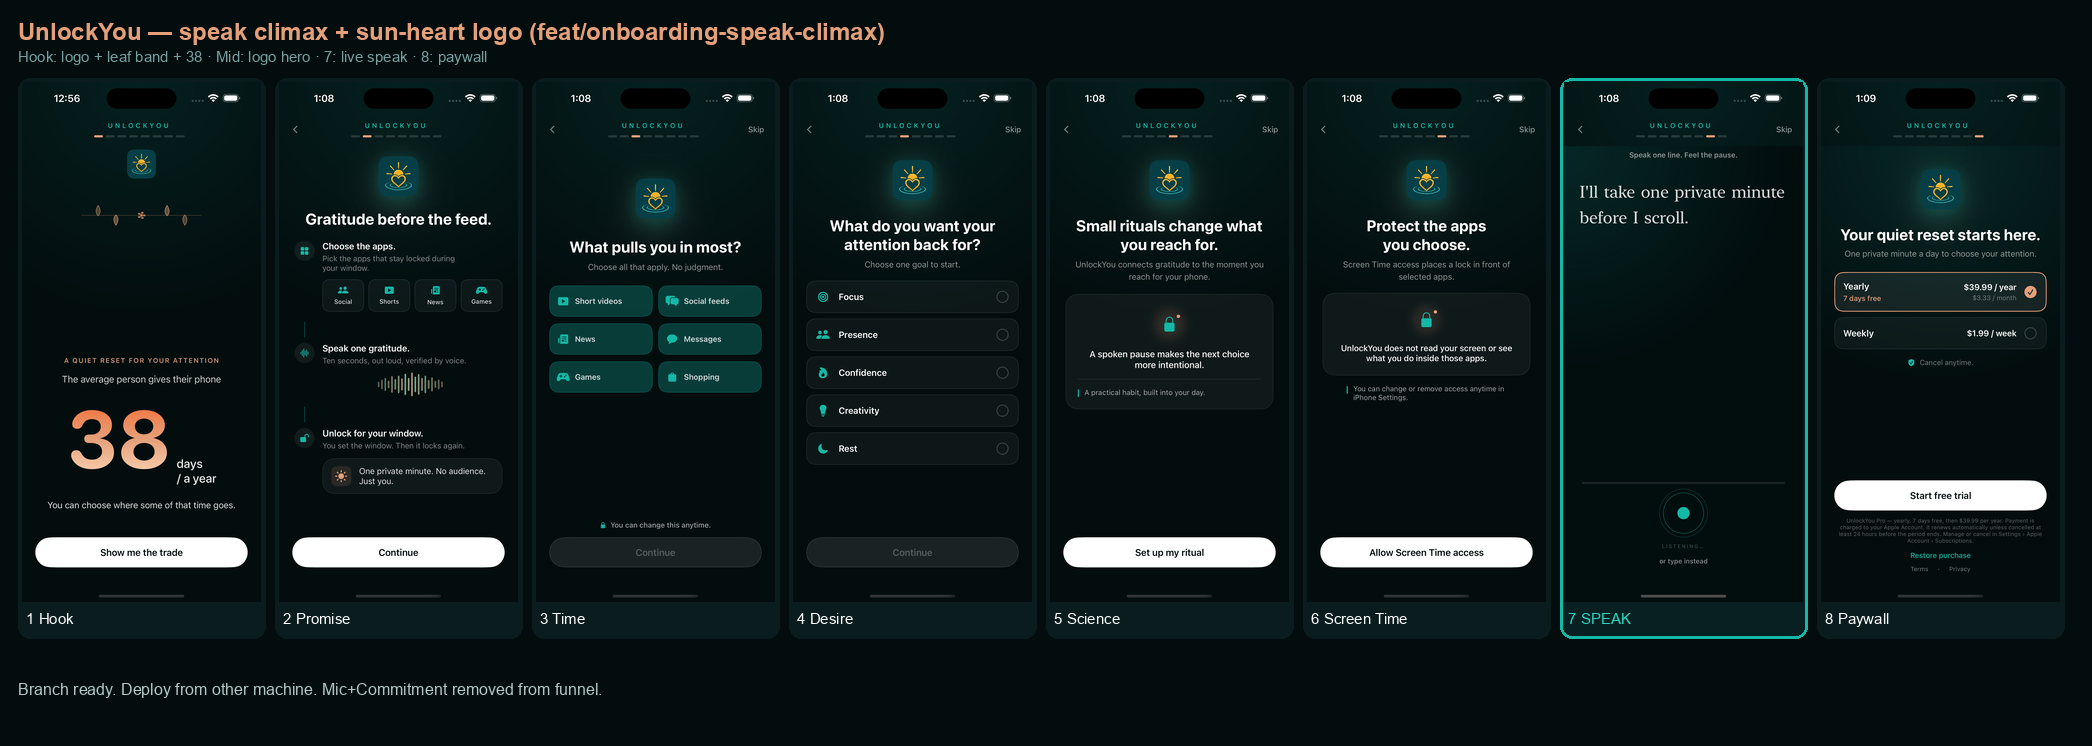
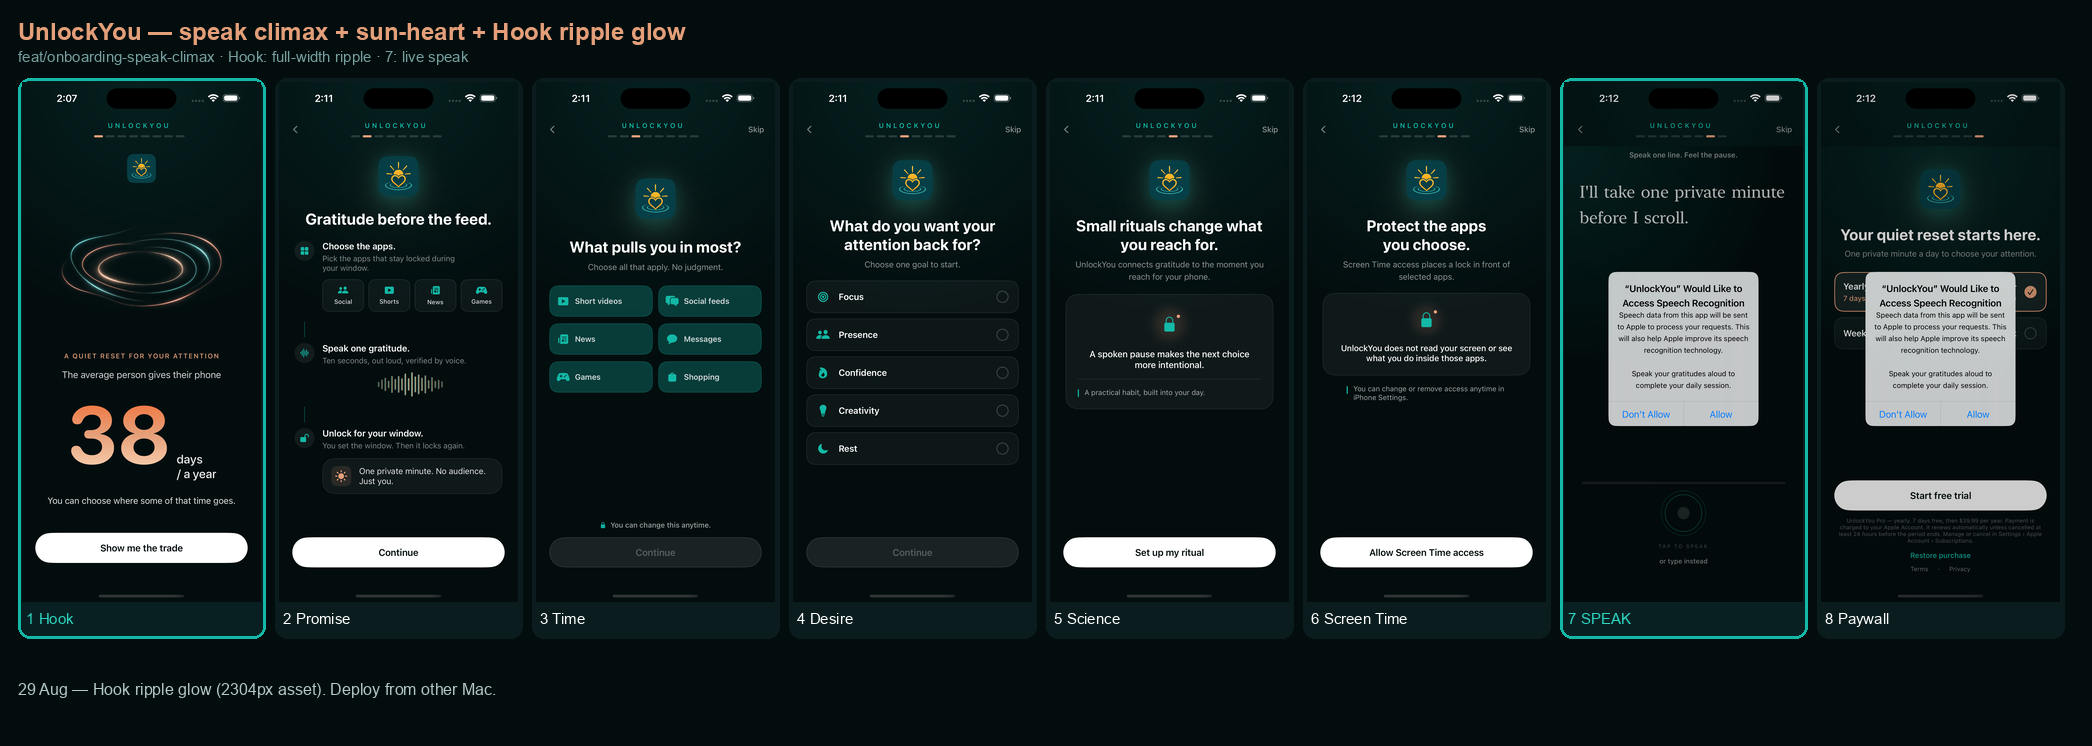
Refresh UnlockYou Hook shots with full-width ripple glow.
Update the flow collage and handoff after the Hook decoration pass on feat/onboarding-speak-climax.

diff --git a/UNLOCKYOU-HANDOFF-25AUG.md b/UNLOCKYOU-HANDOFF-25AUG.md
@@ -27,7 +27,7 @@ Forces onboarding even if completed. Fresh install after pull if sim looks stale
 
 | # | Screen | Visual |
 |---|---|---|
-| 1 Hook | Compact sun-heart logo + horizontal coral leaf band + big **38** (rounded) |
+| 1 Hook | Compact sun-heart logo + **full-width ripple glow** (`UnlockYouRippleGlow`) + big **38** (rounded) |
 | 2 Promise | `OnboardingLogoHero` (sun-heart) |
 | 3 Time sink | Logo hero |
 | 4 Desire | Logo hero |
